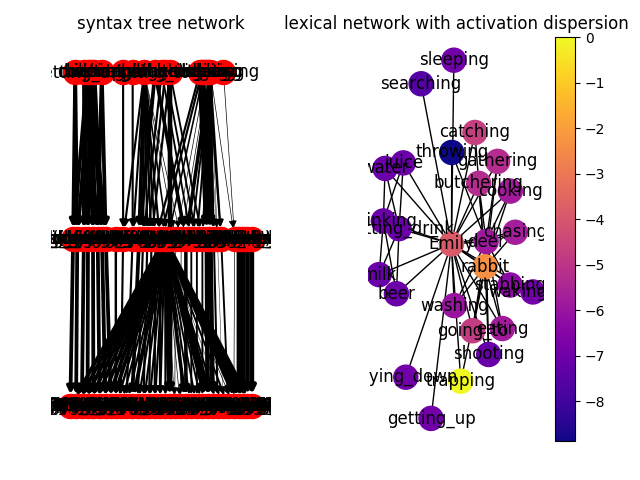
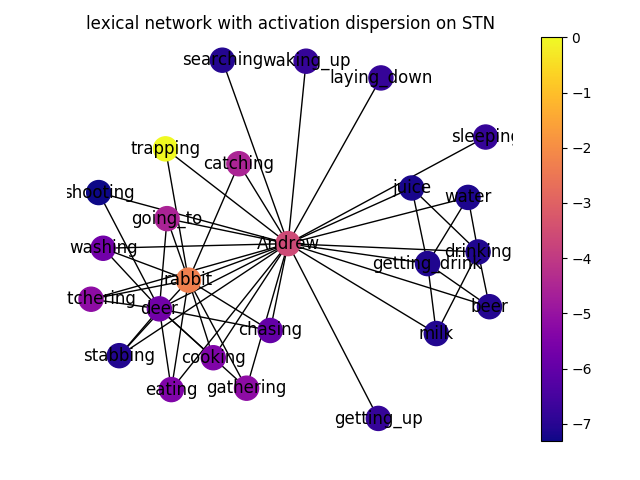
plots separated

diff --git a/STN.py b/STN.py
@@ -436,19 +436,20 @@ class Stn:
 
     ###########################################################################################
 
-    # ploting the STN, together with the neighbor-net and the constituent-net
-    def plot_network(self, color_list):
+    # ploting the STN,
+    def plot_network(self):
         steven = self.network[2]
-        steven_constituent = self.constituent_net
-
-        plt.subplot(121)
         plt.title('syntax tree network', loc= 'center')
         pos = graphviz_layout(steven, prog='dot')
         edges = steven.edges()
         weights = [steven[u][v]['weight'] for u, v in edges]
         nx.draw(steven, pos, with_labels=True, width = weights)
+        plt.show()
 
-        plt.subplot(122)
+
+    # together with the neighbor-net and the constituent-net
+    def plot_lexical_network(self, color_list):
+        steven_constituent = self.constituent_net
         plt.title('lexical network with activation dispersion on STN', loc= 'center')
         vmin = min(color_list)
         vmax = max(color_list)
@@ -581,7 +582,7 @@ class Dg:
 
         return weighted_network_edge, network_node_list, linear_doug, word_dict, diamond_list, final_freq_dict
 
-    def plot_network(self, color_list):
+    def plot_lexical_network(self, color_list):
         linear_doug = self.network[2]
         plt.title('lexical network with activation dispersion on linear graph', loc= 'center')
         vmin = min(color_list)

diff --git a/run_humans.py b/run_humans.py
@@ -26,6 +26,7 @@ def activation_dispersion_measure():
     for human in the_world.human_list:
         words,Steve = human.get_activated_words()
         linear_Doug = STN.Dg(human.linear_corpus)
+        Steve.plot_network()
         STN_analysis.activation_spreading_analysis(Steve, words)
         STN_analysis.activation_spreading_analysis(linear_Doug, words)
 

diff --git a/STN_analysis.py b/STN_analysis.py
@@ -168,5 +168,5 @@ def activation_spreading_analysis(net, words):
 
     #print(color_list)
 
-    net.plot_network(color_list)
+    net.plot_lexical_network(color_list)
     plt.show()
